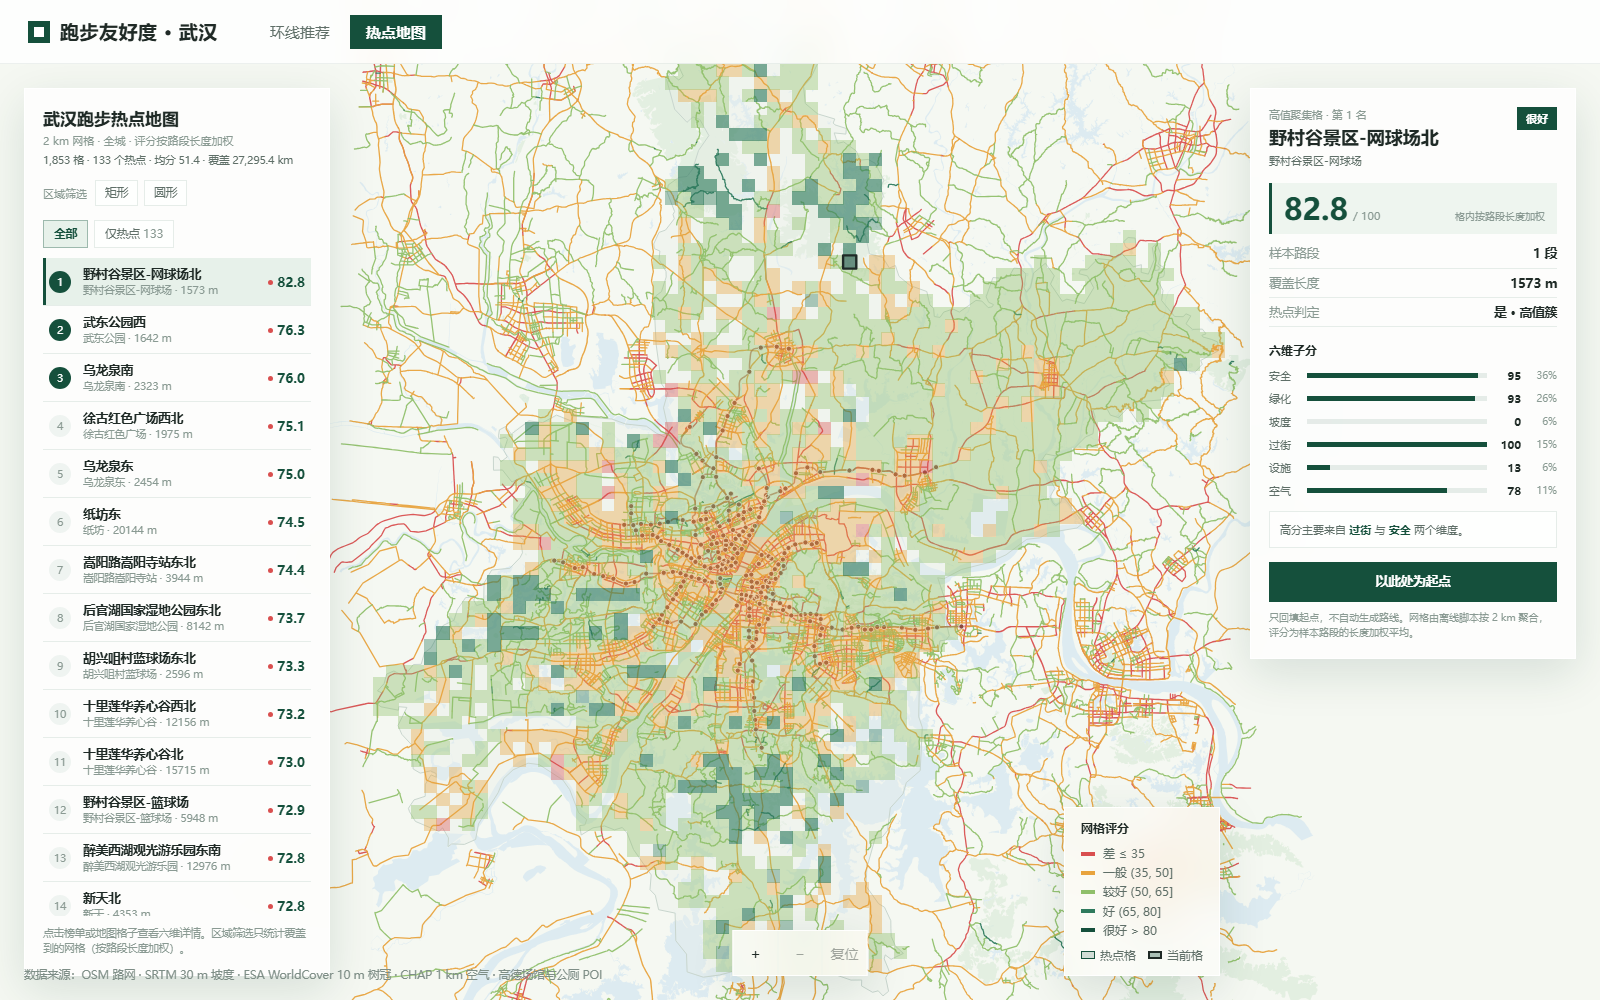
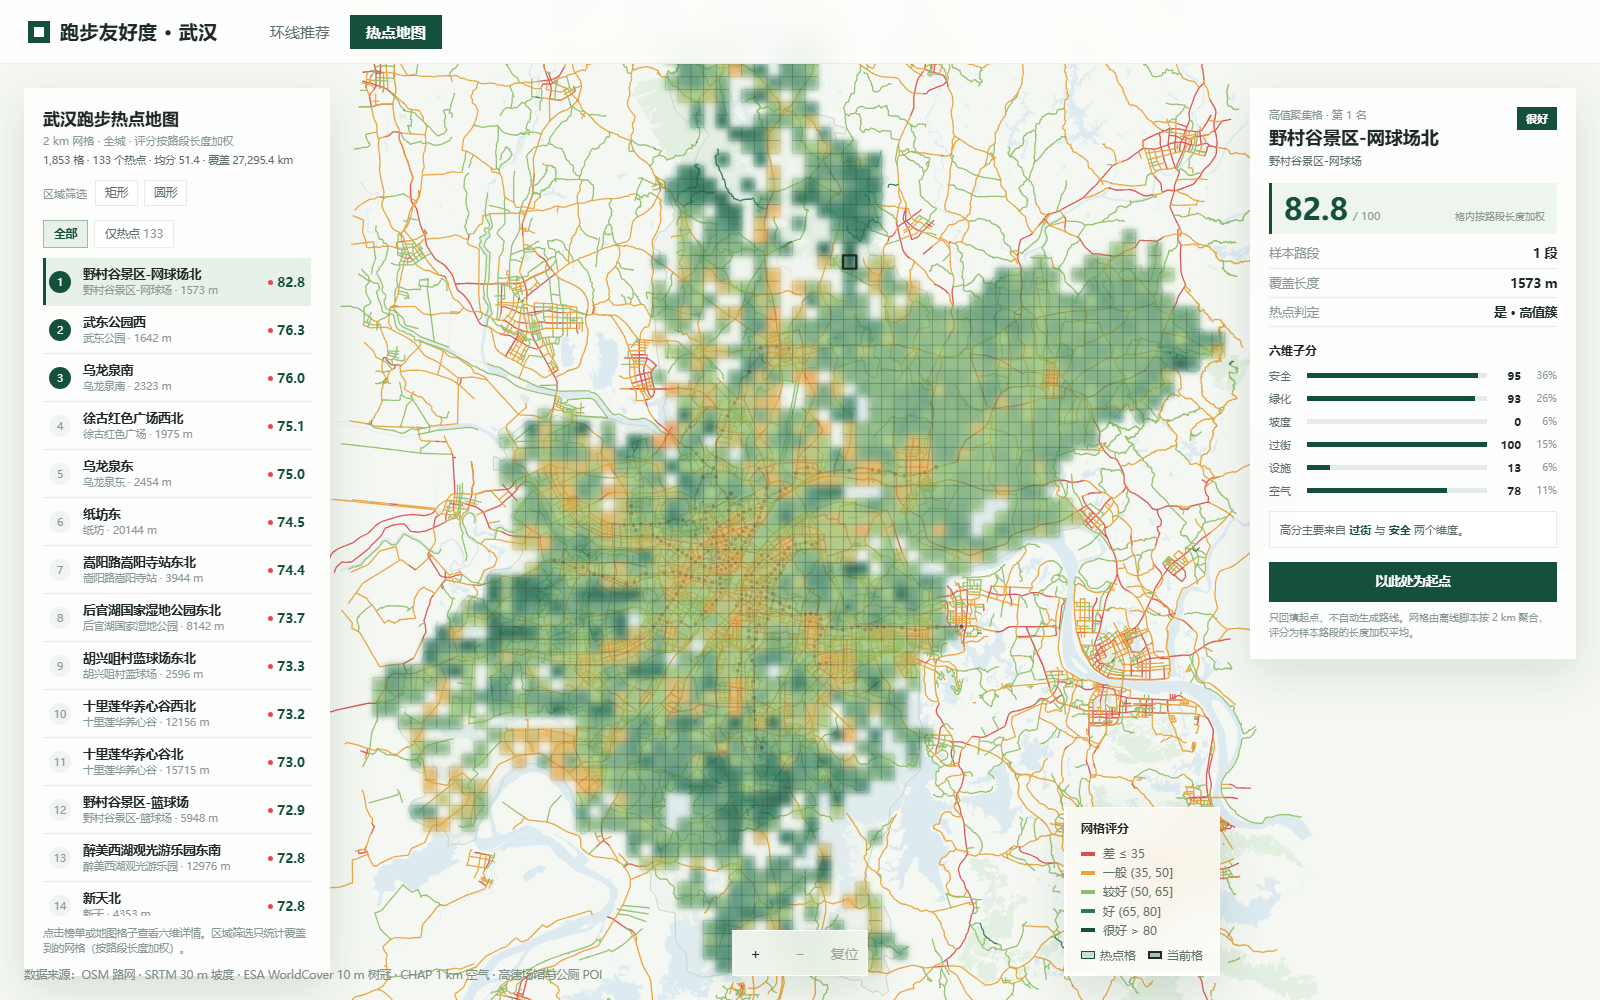
feat(frontend): 热点图改为连续色带 + 高斯模糊，方框边线单独保留
- HotspotOverlay：颜色不再按五档离散分桶，改为按分数映射到色带
  （五档分界对齐 0/0.25/0.5/0.75/1，图例仍对得上），量化 28 级后按颜色合并 path
- 整组过一次 feGaussianBlur(stdDeviation=3.2)，色块之间平滑过渡；
  multiply 混合让底图路网仍可读
- 网格边线另画一条 gridPath（0.14 透明度、non-scaling-stroke），保留「方框」观感
- 验收：真后端 37/37、mock 40/40，重出 hotspot-desktop / hotspot-region / hotspot-mobile 截图
- 文档：AGENTS.md、frontend/app/README.md、热点交接文档同步渲染口径

Changed region(s): [[0.2188, 0.062, 0.7812, 0.992]]

diff --git a/frontend/app/src/components/HotspotOverlay.vue b/frontend/app/src/components/HotspotOverlay.vue
@@ -1,6 +1,6 @@
-<script setup lang="ts">
+<script setup lang="ts">
 import { computed } from 'vue'
-import { segmentColor } from '../lib/color'
+import { GRADE_BINS, ramp } from '../lib/color'
 import { MAP_H, MAP_W, project, type ViewBox } from '../lib/projection'
 import type { HotspotCell } from '../types'
 import type { RegionShape } from '../stores/hotspot'
@@ -23,17 +23,39 @@ const selectedCell = computed(
 
 /**
  * 全城上千个格子逐个建 <path> 会产生同样多的 DOM 节点，
- * 这里按填充色合并成「每种档次一条 path」，既快又不会出现白色接缝。
+ * 这里按「量化后的连续色阶」合并成几十条 path（不按五档离散分桶），
+ * 再由 <filter> 做一次高斯模糊，颜色在格间平滑过渡；方框边线另画一层。
  */
 interface Layer {
   fill: string
   d: string
 }
 
+/** 色阶量化级数：越多越平滑，合并成的 path 也越多 */
+const RAMP_STEPS = 28
+
+/**
+ * 把分数映射到色带上，且让五档分界正好落在 0/0.25/0.5/0.75/1：
+ * 图例的五种颜色仍然对得上，但档内连续过渡，不再是一块块跳色。
+ */
+function scoreT(score: number): number {
+  if (score <= GRADE_BINS[0]) return Math.max(0, score / GRADE_BINS[0]) * 0.25
+  for (let i = 1; i < GRADE_BINS.length; i++) {
+    const lo = GRADE_BINS[i - 1]
+    const hi = GRADE_BINS[i]
+    if (score <= hi) return i * 0.25 + ((score - lo) / (hi - lo)) * 0.25
+  }
+  return 1
+}
+
+function scoreColor(score: number): string {
+  return ramp(Math.round(scoreT(score) * RAMP_STEPS) / RAMP_STEPS)
+}
+
 function grouped(cells: HotspotCell[]): Layer[] {
   const groups = new Map<string, string[]>()
   for (const cell of cells) {
-    const fill = segmentColor(cell.score, cell.grade)
+    const fill = scoreColor(cell.score)
     const paths = groups.get(fill) ?? []
     paths.push(cellPath(cell))
     groups.set(fill, paths)
@@ -43,6 +65,23 @@ function grouped(cells: HotspotCell[]): Layer[] {
 
 const baseLayers = computed(() => grouped(ordered.value.filter((cell) => !cell.isHotspot)))
 const hotLayers = computed(() => grouped(ordered.value.filter((cell) => cell.isHotspot)))
+
+/** 所有格子的边框合成一条 path，作为「方框」的细线，压住模糊后的颜色场 */
+const gridPath = computed(() => {
+  const parts: string[] = []
+  for (const cell of props.cells) {
+    const halfW = cell.widthLng / 2
+    const halfH = cell.heightLat / 2
+    const [x0, y0] = project(props.view, cell.lng - halfW, cell.lat + halfH)
+    const [x1, y1] = project(props.view, cell.lng + halfW, cell.lat - halfH)
+    const xa = Math.min(x0, x1).toFixed(1)
+    const xb = Math.max(x0, x1).toFixed(1)
+    const ya = Math.min(y0, y1).toFixed(1)
+    const yb = Math.max(y0, y1).toFixed(1)
+    parts.push(`M${xa},${ya}H${xb}V${yb}H${xa}Z`)
+  }
+  return parts.join('')
+})
 
 function cellPath(cell: HotspotCell): string {
   const halfW = cell.widthLng / 2
@@ -113,23 +152,37 @@ const draftPath = computed(() => shapePath(props.draft))
     :data-cells="cells.length"
     aria-hidden="true"
   >
+    <defs>
+      <filter id="hotspot-smooth" x="-8%" y="-8%" width="116%" height="116%">
+        <feGaussianBlur stdDeviation="3.2" />
+      </filter>
+    </defs>
+    <g filter="url(#hotspot-smooth)" shape-rendering="geometricPrecision" style="mix-blend-mode: multiply">
+      <path
+        v-for="layer in baseLayers"
+        :key="'base-' + layer.fill"
+        :d="layer.d"
+        :fill="layer.fill"
+        fill-opacity="0.72"
+        stroke="none"
+      />
+      <path
+        v-for="layer in hotLayers"
+        :key="'hot-' + layer.fill"
+        :d="layer.d"
+        :fill="layer.fill"
+        fill-opacity="0.85"
+        stroke="none"
+      />
+    </g>
     <path
-      v-for="layer in baseLayers"
-      :key="'base-' + layer.fill"
-      :d="layer.d"
-      :fill="layer.fill"
-      fill-opacity="0.38"
-      stroke="none"
-      shape-rendering="crispEdges"
-    />
-    <path
-      v-for="layer in hotLayers"
-      :key="'hot-' + layer.fill"
-      :d="layer.d"
-      :fill="layer.fill"
-      fill-opacity="0.62"
-      stroke="none"
-      shape-rendering="crispEdges"
+      v-if="gridPath"
+      :d="gridPath"
+      fill="none"
+      stroke="#1f2a26"
+      stroke-opacity="0.14"
+      stroke-width="1"
+      vector-effect="non-scaling-stroke"
     />
     <path
       v-if="selectedPath"
@@ -180,3 +233,9 @@ const draftPath = computed(() => shapePath(props.draft))
   pointer-events: none;
 }
 </style>
+
+
+
+
+
+

diff --git a/frontend/app/README.md b/frontend/app/README.md
@@ -84,7 +84,7 @@ docs/数据图层清单.md      数据检测记录：16 个空间文件 / 13 个
   `/api/segments`（上限 4 万段，LRU 缓存），移出视野即释放；超出时提示"当前范围路段过多，已简化显示"。
 - **适宜性地图**：路网按 score 着色（#D94F4F→#15503C），环线白描边 + 黑线，起点与单行线终点标记。点击地图设置起点，点「复位」恢复默认视野。
 - **环线推荐**：起点（2 预设 + 在线搜索 + 地图点击）、3/5/10 km、三个路线偏好开关、生成、`‹ 1/3 ›` 与 ←/→ 切换候选。
-- **热点地图**：全城 1,853 格（默认 2 km）分级设色，热点格加深，按档位合并成少量 `<path>` 渲染；左侧 Top20 榜单、右侧六维详情、图例和“以此处为起点”联动。支持**区域筛选**：在图上拖出矩形或圆形，只统计覆盖到的网格并按长度加权重算均分与排名（区域外压暗，`Esc`/清除恢复全城）。热点页不显示设施点位。数据来自 `/api/hotspot`（离线脚本 `backend/scripts/build_hotspot_grid.py` 产物），失败回退 `/geo/hotspot/grid.json`。
+- **热点地图**：全城 1,853 格（默认 2 km）分级设色，按分数映射到连续色带（五档分界落在色带 0/0.25/0.5/0.75/1，与图例对得上）并做一次高斯模糊，颜色在格间平滑过渡；格子的方框边线单独画一层，保留网格感。左侧 Top20 榜单、右侧六维详情、图例和“以此处为起点”联动。支持**区域筛选**：在图上拖出矩形或圆形，只统计覆盖到的网格并按长度加权重算均分与排名（区域外压暗，`Esc`/清除恢复全城）。热点页不显示设施点位。数据来自 `/api/hotspot`（离线脚本 `backend/scripts/build_hotspot_grid.py` 产物），失败回退 `/geo/hotspot/grid.json`。
 - **四态**：加载（顶部 pill + CTA 文案）、无结果（中性提示，不报错）、失败（红框 + HTTP 码）、底图/manifest 失败。
 - **可解释面板**：距离/用时/树冠/坡度/场馆/吸附距离 + 安全/绿化/坡度三条子分 + 权重脚注。
 - **响应式**：1440×900（整页 0.9 缩放）；宽度不超过 1100 px 或高度不超过 680 px 时改用单列纵向滚动，地图保持 16:10，路线设置与结果在图层面板之前。

diff --git a/docs/过程/热点地图前端实现与交接.md b/docs/过程/热点地图前端实现与交接.md
@@ -22,7 +22,7 @@
 热点页左侧标题为 **“武汉跑步热点地图”**，页面包含：
 
 - **全城** 2 km 网格（1,853 格 / 133 个热点），按 v2 分档（35 / 50 / 65 / 80）分级设色；
-- 热点格加深、当前选中格描边；同档格子合并成一条 `<path>` 渲染（5 档 + 热点层 + 选中层）；
+- 热点格加深、当前选中格描边；颜色按分数映射到连续色带（五档分界落在 0/0.25/0.5/0.75/1）后量化 28 级、按颜色合并成 `<path>`，整组过一次 `feGaussianBlur stdDeviation=3.2` 平滑过渡；格子方框边线另外合成一条 `gridPath`（0.14 透明度）保持网格感；
 - 左侧 Top20 榜单，可切换“全部 / 仅热点”；
 - 右侧格子详情：综合分、排名、样本路段数、覆盖长度、六维子分；
 - “以此处为起点”按钮：回填起点（`originSource='custom'`）并跳到环线页，`setOrigin` 会按新起点生成一次路线；
